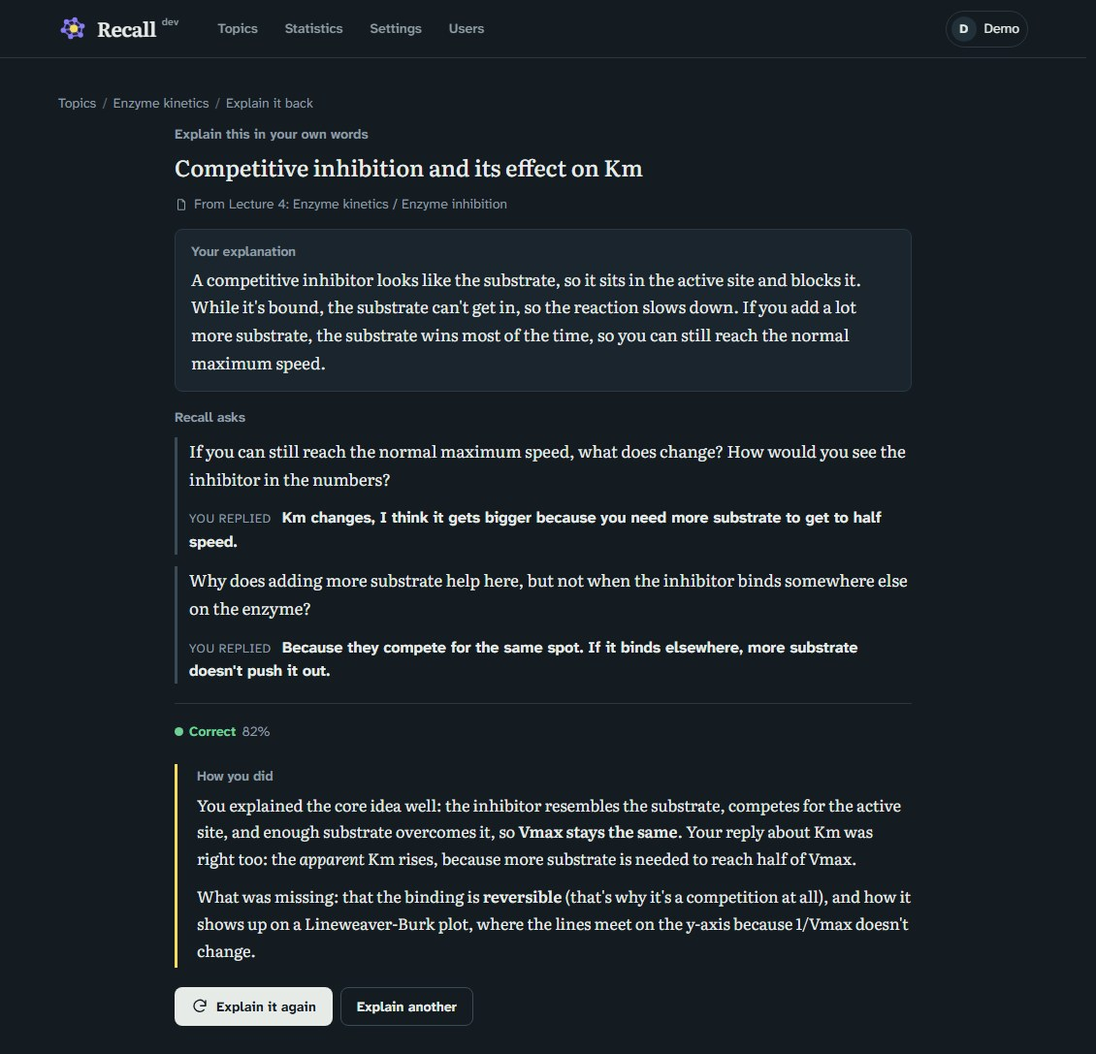
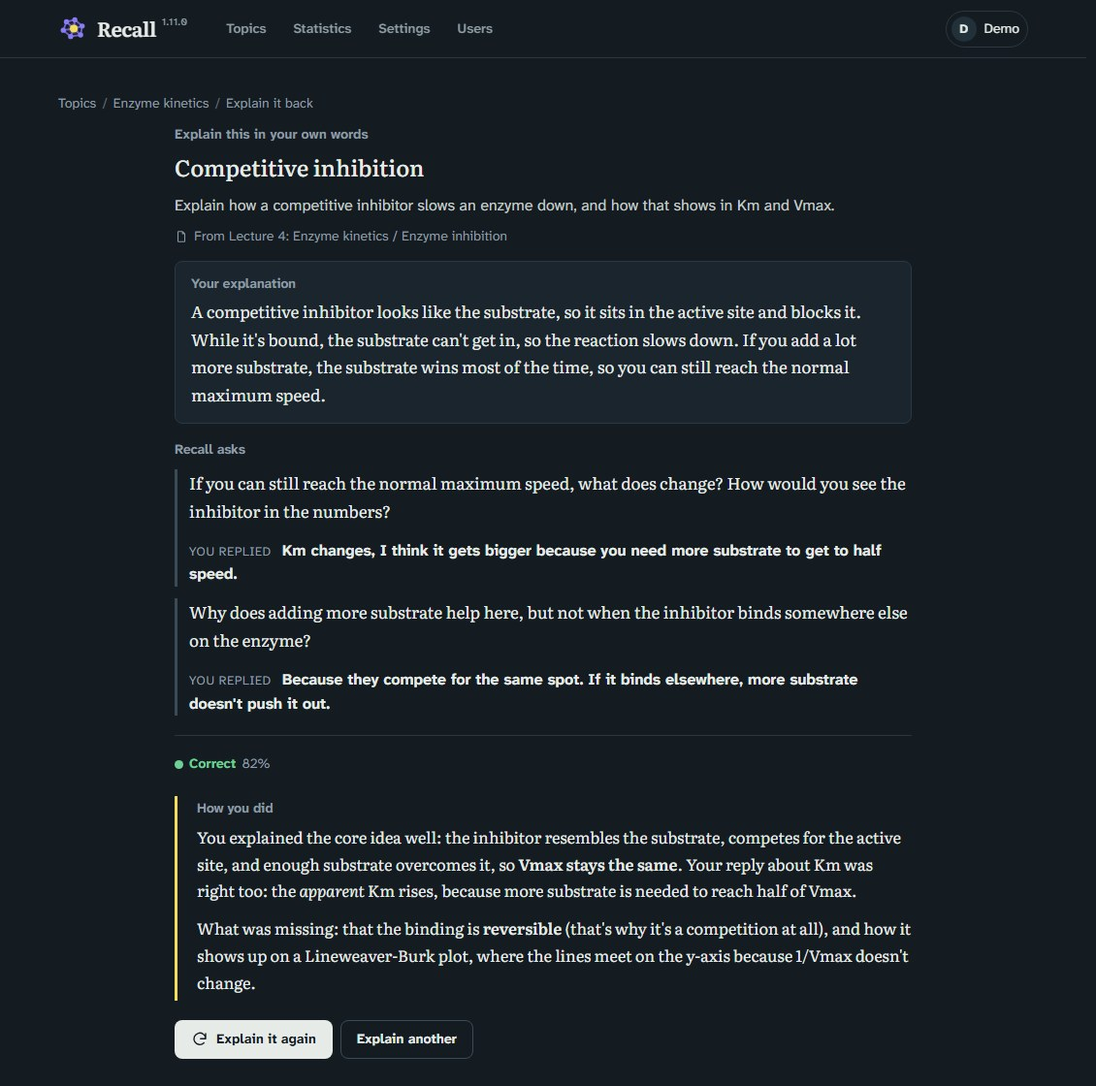
Keep attempt navigation in one place; give Explain it back concepts a task
Testing 1.11.0 showed two rough spots.

The Next button moved between two rows depending on whether the
question was answered. Navigation is now one fixed row: Previous on the
left (disabled on the first question), finishing in the middle, Next on
the right. Next goes to the following question instead of jumping to
the next unanswered one, which was confusing beside Previous; saving an
answer still moves on to the next open question.

A concept name alone ("Safety warnings") gave no idea what to explain.
The AI now writes a one-sentence task for each concept along with its
name: what to cover, with context, but not the answer. It's shown on
the pick page and the session and sent to the AI with the concept.
Material without tasks shows what its section covers instead and is
offered for re-analysis.

While material is analyzed again, Explain it back and the topic page
show the moving logo like other long-running work.

diff --git a/src/LearningPortal.Web/wwwroot/css/app.css b/src/LearningPortal.Web/wwwroot/css/app.css
@@ -827,6 +827,9 @@ a.row-title:hover { text-decoration: underline; text-decoration-color: var(--rul
 /* The logo stands in for a spinner; wwwroot/js/brand-motion.js moves its dot. */
 .busy .brand-mark { flex: none; }
 .busy-note { display: block; margin-top: 2px; color: var(--pencil); font-size: var(--t-xs); }
+/* The same moving logo, small, beside a material that's being analyzed. */
+.analyzing { display: inline-flex; align-items: center; gap: 6px; }
+.analyzing .brand-mark { flex: none; }
 
 /* "Practice weak questions": a button with how many questions to take. */
 .practice-row { display: flex; flex-wrap: wrap; align-items: center; gap: 10px 16px; margin-top: 14px; }
@@ -908,7 +911,10 @@ a.tool-card:hover, a.tool-card:focus-visible { border-color: var(--pencil); }
 .concept-pick { text-align: left; font-weight: 700; color: var(--ink); }
 /* Explain it back: a section's name over the concepts to pick from it. */
 .concept-section { margin-bottom: 6px; font-size: var(--t-sm); color: var(--pencil); overflow-wrap: anywhere; }
-.concept-list { display: grid; gap: 6px; margin: 0; padding: 0; list-style: none; }
+.concept-list { display: grid; gap: 10px; margin: 0; padding: 0; list-style: none; }
+/* What to explain about a concept, under its name. */
+.concept-task { margin-top: 2px; color: var(--ink-soft); font-size: var(--t-sm); line-height: 1.45; overflow-wrap: anywhere; }
+.exam .concept-task { font-size: var(--t-md); }
 .explain-student { display: grid; gap: 12px; margin-top: 18px; }
 .explain-student .follow-up { display: grid; gap: 8px; }
 
@@ -1401,8 +1407,24 @@ a.tool-card:hover, a.tool-card:focus-visible { border-color: var(--pencil); }
 }
 
 .exam-actions .spacer { flex: 1; }
-/* The quieter row under the answer buttons: previous question, skip to the next. */
-.exam-nav { margin-top: 10px; }
+/* Getting around an attempt: previous on the left, finishing in the middle, next on the right.
+   Three fixed columns, so the buttons stay put whatever the question's state. */
+.exam-nav {
+    display: grid;
+    grid-template-columns: 1fr auto 1fr;
+    align-items: center;
+    gap: 10px;
+    margin-top: 24px;
+}
+
+.exam-actions + .exam-nav { margin-top: 14px; }
+.exam-nav > :first-child { justify-self: start; }
+.exam-nav > :last-child { justify-self: end; }
+.exam-nav-finish { justify-self: center; }
+
+@media (max-width: 520px) {
+    .exam-nav .long { display: none; }
+}
 
 .result-line {
     display: flex;

diff --git a/src/LearningPortal.Core/Services/ExplainService.cs b/src/LearningPortal.Core/Services/ExplainService.cs
@@ -10,7 +10,12 @@ namespace LearningPortal.Core.Services;
 // A concept the user can explain: one idea from a section of the material. The AI lists them per
 // section when it outlines the material; material analyzed before that gets the key concepts of
 // its outline line, split at the commas, or the section's name when there's no outline.
-public sealed record ExplainConcept(int SectionId, string MaterialTitle, string SectionName, string Label, string State);
+// Task: the AI's line on what to explain about it; null for a concept from the fallback.
+public sealed record ExplainConcept(int SectionId, string MaterialTitle, string SectionName, string Label, string? Task, string State);
+
+// Where a session's concept comes from ("Material / Section"), what to explain about it, and,
+// when the AI wrote no task for it, what else its section covers, for context.
+public sealed record ExplainSource(string Name, string? Task, string? Covers);
 
 // Material whose concepts still come from splitting its outline; analyzing it again lists them properly.
 // Error: why the last try at that failed.
@@ -41,10 +46,10 @@ public sealed class ExplainService(
         {
             foreach (var s in material.Sections)
             {
-                IReadOnlyList<string> labels = listed.TryGetValue(s.SectionId, out var fromAi) ? fromAi
-                    : SectionNames.SplitConcepts(s.Concepts) is { Count: > 0 } split ? split
-                    : [s.Name];
-                concepts.AddRange(labels.Select(label => new ExplainConcept(s.SectionId, material.Title, s.Name, Truncate(label), StateOf(s))));
+                IReadOnlyList<SectionConcept> found = listed.GetValueOrDefault(s.SectionId) is { } fromAi ? fromAi
+                    : SectionNames.SplitConcepts(s.Concepts) is { Count: > 0 } split ? split.Select(c => new SectionConcept(c, null)).ToList()
+                    : [new SectionConcept(s.Name, null)];
+                concepts.AddRange(found.Select(c => new ExplainConcept(s.SectionId, material.Title, s.Name, Truncate(c.Name), c.Task, StateOf(s))));
             }
         }
         return concepts;
@@ -55,7 +60,7 @@ public sealed class ExplainService(
         await using var db = await dbFactory.CreateDbContextAsync(ct);
         return await db.Materials.AsNoTracking()
             .Where(m => m.UserId == userId && m.TopicId == topicId && m.Outline != null
-                && m.Sections.Any(s => s.ConceptsJson == null))
+                && m.Sections.Any(s => s.ConceptsJson == null || s.ConceptsJson.StartsWith("[\"")))
             .OrderBy(m => m.CreatedAt)
             .Select(m => new ConceptRefresh(m.Id, m.Title, m.TokenEstimate,
                 m.AnalysisStatus == AnalysisStatus.Failed ? m.AnalysisError : null))
@@ -102,24 +107,36 @@ public sealed class ExplainService(
             .FirstOrDefaultAsync(s => s.Id == sessionId && s.UserId == userId, ct) ?? throw new NotFoundException();
     }
 
-    // "Material / Section" for the section a session's concept comes from; null when the material
-    // has since been deleted.
-    public async Task<string?> SourceNameAsync(string userId, int sessionId, CancellationToken ct = default)
+    // Null when the material has since been deleted.
+    public async Task<ExplainSource?> SourceAsync(string userId, int sessionId, CancellationToken ct = default)
     {
         await using var db = await dbFactory.CreateDbContextAsync(ct);
-        var sectionId = await db.ExplainSessions.Where(s => s.Id == sessionId && s.UserId == userId).Select(s => s.SectionId).FirstOrDefaultAsync(ct);
+        var session = await db.ExplainSessions.AsNoTracking().Where(s => s.Id == sessionId && s.UserId == userId)
+            .Select(s => new { s.SectionId, s.Concept }).FirstOrDefaultAsync(ct);
+        if (session?.SectionId is not { } sectionId)
+            return null;
         var material = await db.Materials.AsNoTracking()
             .Where(m => m.UserId == userId && m.Sections.Any(s => s.Id == sectionId))
             .Select(m => new Material
             {
                 Id = m.Id, Title = m.Title, Outline = m.Outline,
-                Sections = m.Sections.Select(s => new MaterialSection { Id = s.Id, MaterialId = s.MaterialId, Index = s.Index, Heading = s.Heading }).ToList(),
+                Sections = m.Sections.Select(s => new MaterialSection { Id = s.Id, MaterialId = s.MaterialId, Index = s.Index, Heading = s.Heading, ConceptsJson = s.ConceptsJson }).ToList(),
             })
             .FirstOrDefaultAsync(ct);
-        return material?.Sections.FirstOrDefault(s => s.Id == sectionId) is { } section
-            ? QuestionGenerationService.SourceLabel(material, section)
+        if (material?.Sections.FirstOrDefault(s => s.Id == sectionId) is not { } section)
+            return null;
+
+        var task = TaskFor(section.Concepts, session.Concept);
+        var covers = task is null
+            ? SectionNames.For(material.Title, material.Outline, material.Sections.Select(s => (s.Index, s.Heading)))[section.Index].Concepts
             : null;
+        return new ExplainSource(QuestionGenerationService.SourceLabel(material, section), task, covers);
     }
+
+    // The session keeps only the concept's name; its task is looked up, so it's gone if a later
+    // analysis renamed the concept.
+    private static string? TaskFor(IReadOnlyList<SectionConcept>? concepts, string concept) =>
+        concepts?.FirstOrDefault(c => Truncate(c.Name).Equals(concept, StringComparison.OrdinalIgnoreCase))?.Task;
 
     public async Task<IReadOnlyList<ExplainSummary>> ListAsync(string userId, int topicId, CancellationToken ct = default)
     {
@@ -151,13 +168,13 @@ public sealed class ExplainService(
         var session = await LoadAsync(db, userId, sessionId, ct);
         if (session.Questions.Count > 0)
             throw new InvalidOperationException("This explanation already has its questions.");
-        var (language, source) = await ContextAsync(db, session, ct);
+        var (language, source, concept) = await ContextAsync(db, session, ct);
 
         var connection = await settings.GetConnectionAsync(userId, AiTask.Generation, choice, ct);
         var json = await AiClientFactory.Create(connection).CompleteJsonAsync(new AiRequest
         {
             System = Prompts.ExplainQuestionsSystem(language),
-            Prompt = Prompts.ExplainPrompt(session.Concept, source, text),
+            Prompt = Prompts.ExplainPrompt(concept, source, text),
             SchemaName = "explain_questions",
             Schema = Prompts.ExplainQuestionsSchema,
             MaxTokens = 2_000,
@@ -197,13 +214,13 @@ public sealed class ExplainService(
             throw new InvalidOperationException("Write your explanation first.");
         if (session.CompletedAt is not null)
             throw new InvalidOperationException("This explanation has already been assessed.");
-        var (language, source) = await ContextAsync(db, session, ct);
+        var (language, source, concept) = await ContextAsync(db, session, ct);
 
         var connection = await settings.GetConnectionAsync(userId, AiTask.Generation, choice, ct);
         var json = await AiClientFactory.Create(connection).CompleteJsonAsync(new AiRequest
         {
             System = Prompts.ExplainAssessmentSystem(language),
-            Prompt = Prompts.ExplainPrompt(session.Concept, source, session.Explanation, session.Questions, cleaned),
+            Prompt = Prompts.ExplainPrompt(concept, source, session.Explanation, session.Questions, cleaned),
             SchemaName = "explain_assessment",
             Schema = Prompts.ExplainAssessmentSchema,
             MaxTokens = 4_000,
@@ -229,13 +246,16 @@ public sealed class ExplainService(
     private static async Task<ExplainSession> LoadAsync(AppDbContext db, string userId, int sessionId, CancellationToken ct) =>
         await db.ExplainSessions.FirstOrDefaultAsync(s => s.Id == sessionId && s.UserId == userId, ct) ?? throw new NotFoundException();
 
-    private static async Task<(string Language, string? Source)> ContextAsync(AppDbContext db, ExplainSession session, CancellationToken ct)
+    // The concept as the AI sees it: with its task, when there is one, so it judges the same
+    // thing the user was asked to explain.
+    private static async Task<(string Language, string? Source, string Concept)> ContextAsync(AppDbContext db, ExplainSession session, CancellationToken ct)
     {
         var language = await db.Topics.Where(t => t.Id == session.TopicId).Select(t => t.Language).FirstAsync(ct);
-        var source = session.SectionId is { } sid
-            ? await db.MaterialSections.Where(s => s.Id == sid).Select(s => s.Text).FirstOrDefaultAsync(ct)
+        var section = session.SectionId is { } sid
+            ? await db.MaterialSections.AsNoTracking().Where(s => s.Id == sid).Select(s => new MaterialSection { Text = s.Text, ConceptsJson = s.ConceptsJson }).FirstOrDefaultAsync(ct)
             : null;
-        return (language, source);
+        var concept = TaskFor(section?.Concepts, session.Concept) is { } task ? $"{session.Concept}\n{task}" : session.Concept;
+        return (language, section?.Text, concept);
     }
 
     private static string StateOf(SectionScore s) => s.QuestionCount == 0 ? "empty"

diff --git a/src/LearningPortal.Core/Models/Entities.cs b/src/LearningPortal.Core/Models/Entities.cs
@@ -131,6 +131,38 @@ public sealed class Material
     public List<MaterialSection> Sections { get; set; } = [];
 }
 
+// One idea to explain: its name, and a line saying what to explain about it (with the context
+// the bare name lacks, but not the answer).
+public sealed record SectionConcept(string Name, string? Task)
+{
+    public const int MaxTaskLength = 300;
+
+    public static IReadOnlyList<SectionConcept>? Parse(string? json)
+    {
+        if (json is null)
+            return null;
+        var list = new List<SectionConcept>();
+        try
+        {
+            using var doc = System.Text.Json.JsonDocument.Parse(json);
+            foreach (var item in doc.RootElement.EnumerateArray())
+            {
+                // A bare string is a name without a task (lists written by early 1.11.0 builds).
+                if (item.ValueKind == System.Text.Json.JsonValueKind.String)
+                    list.Add(new SectionConcept(item.GetString()!, null));
+                else if (item.ValueKind == System.Text.Json.JsonValueKind.Object && item.TryGetProperty("name", out var name))
+                    list.Add(new SectionConcept(name.GetString() ?? "",
+                        item.TryGetProperty("task", out var task) && !string.IsNullOrWhiteSpace(task.GetString()) ? task.GetString() : null));
+            }
+        }
+        catch (Exception ex) when (ex is System.Text.Json.JsonException or InvalidOperationException)
+        {
+            return null;
+        }
+        return list.Where(c => c.Name.Length > 0).ToList();
+    }
+}
+
 public sealed class MaterialSection
 {
     public int Id { get; set; }
@@ -140,14 +172,16 @@ public sealed class MaterialSection
     public string Text { get; set; } = "";
     public int TokenEstimate { get; set; }
     // The concepts in this section worth explaining in one's own words, listed by the AI along
-    // with the outline, as a JSON string array. Null for material analyzed before 1.11.0; an
-    // empty list means the section has nothing to explain (a table of contents, references).
+    // with the outline, as JSON: [{"name": "...", "task": "..."}]. Null for material analyzed
+    // before 1.11.0; an empty list means the section has nothing to explain (a table of contents,
+    // references).
     public string? ConceptsJson { get; set; }
 
     public Material? Material { get; set; }
 
-    public IReadOnlyList<string>? Concepts =>
-        ConceptsJson is null ? null : System.Text.Json.JsonSerializer.Deserialize<List<string>>(ConceptsJson) ?? [];
+    // Read from ConceptsJson; not a table of its own.
+    [System.ComponentModel.DataAnnotations.Schema.NotMapped]
+    public IReadOnlyList<SectionConcept>? Concepts => SectionConcept.Parse(ConceptsJson);
 }
 
 // A question in a topic's bank. Exams reference bank questions rather than owning copies, so a

diff --git a/src/LearningPortal.Core/Ai/Prompts.cs b/src/LearningPortal.Core/Ai/Prompts.cs
@@ -21,7 +21,18 @@ public static class Prompts
                 "type": "object",
                 "properties": {
                   "section_index": { "type": "integer" },
-                  "concepts": { "type": "array", "items": { "type": "string" } }
+                  "concepts": {
+                    "type": "array",
+                    "items": {
+                      "type": "object",
+                      "properties": {
+                        "name": { "type": "string" },
+                        "task": { "type": "string" }
+                      },
+                      "required": ["name", "task"],
+                      "additionalProperties": false
+                    }
+                  }
                 },
                 "required": ["section_index", "concepts"],
                 "additionalProperties": false
@@ -53,10 +64,13 @@ public static class Prompts
             which parts of the material to ask about, not to replace the material.
 
             Separately, in "concepts", list for every section the concepts a student should be able
-            to explain in their own words: up to 6 per section, the most important first. Each one is
-            a short phrase that names a single idea and makes sense on its own, without seeing the
-            section: "The Three Assurances in safer-sex talks", not "Vulnerability" or "Questions
-            16-20". Give a section an empty list when it has nothing to explain, such as a table of
+            to explain in their own words: up to 6 per section, the most important first. Each has:
+            - "name": a short phrase that names a single idea.
+            - "task": one sentence telling the student what to explain about it, with the context
+              the bare name lacks, so it makes sense to someone who can't see the section. It says
+              what to cover, never the answer. For the name "Safety warnings": "Explain which
+              warnings the manual gives for charging the battery, and why each one matters."
+            Give a section an empty list when it has nothing to explain, such as a table of
             contents, an index or a list of references.
             """);
         return sb.ToString();

diff --git a/src/LearningPortal.Core/Services/MaterialService.cs b/src/LearningPortal.Core/Services/MaterialService.cs
@@ -171,10 +171,14 @@ public sealed class MaterialService(
                 || sections.FirstOrDefault(s => s.Index == sectionIndex) is not { } section)
                 continue;
             var cleaned = concepts.EnumerateArray()
-                .Select(c => c.ValueKind == JsonValueKind.String ? c.GetString()!.Trim() : "")
-                .Where(c => c.Length > 0)
-                .Select(c => c.Length <= ExplainSession.MaxConceptLength ? c : c[..ExplainSession.MaxConceptLength])
-                .Distinct(StringComparer.OrdinalIgnoreCase)
+                .Where(c => c.ValueKind == JsonValueKind.Object)
+                .Select(c => new
+                {
+                    name = Clip(c.TryGetProperty("name", out var n) ? n.GetString() : null, ExplainSession.MaxConceptLength),
+                    task = Clip(c.TryGetProperty("task", out var t) ? t.GetString() : null, SectionConcept.MaxTaskLength),
+                })
+                .Where(c => c.name.Length > 0)
+                .DistinctBy(c => c.name, StringComparer.OrdinalIgnoreCase)
                 .Take(MaxConceptsPerSection)
                 .ToList();
             section.ConceptsJson = JsonSerializer.Serialize(cleaned);
@@ -182,6 +186,9 @@ public sealed class MaterialService(
     }
 
     private const int MaxConceptsPerSection = 8;
+
+    private static string Clip(string? text, int max) =>
+        text is null ? "" : text.Trim() is var t && t.Length <= max ? t : text.Trim()[..max];
 
     public async Task<MaterialDetail> GetAsync(string userId, int materialId, CancellationToken ct = default)
     {

diff --git a/CLAUDE.md b/CLAUDE.md
@@ -32,7 +32,7 @@ LearningPortal is a multi-user, Docker-hosted web app that turns a user's own st
 - **Question writing runs in the background.** Filling, regenerating and replacing questions run on the server (`QuestionWriter`), so they carry on when the user leaves the page or closes the browser. The exam page follows the job live and shows its outcome when the user comes back; the topic page marks exams being written.
 - **Concept map.** A topic's sections as tiles, sized by text and colored by how well their questions go (no AI). Picking a section practices it through the topic's practice exam. Sections are named by `SectionNames`: a heading that tells the section apart, otherwise the subject from the material's outline (material without headings gets "Title (part N)" headings), otherwise "Part N". The same names are used on the material page, in Explain it back, practice names and question source labels. Source labels are stored on the question, so renaming or re-analyzing material rebuilds them.
 - **Homepage widget.** `GET /api/homepage/stats` returns instance-wide counts (accounts, active this week, active now) for a gethomepage.dev customapi widget. It takes one token for the whole instance in an `X-API-Key` header; any admin creates, replaces or revokes it under Admin settings, and only its SHA-256 hash is stored.
-- **Explain it back.** The user picks a concept (single ideas, grouped by section, or "Surprise me", which favors weak sections) and explains it in their own words; the AI asks one or two questions like a curious beginner, then scores it (0-100) with feedback. Only that section's text goes to the AI. The AI lists each section's concepts when it outlines the material (stored per section; an empty list hides a section with nothing to explain). Material outlined before 1.11.0 falls back to splitting its outline line, and the page offers to analyze it again. Sessions are kept per topic and don't count in statistics.
+- **Explain it back.** The user picks a concept (single ideas, grouped by section, or "Surprise me", which favors weak sections) and explains it in their own words; the AI asks one or two questions like a curious beginner, then scores it (0-100) with feedback. Only that section's text goes to the AI. The AI lists each section's concepts when it outlines the material: a short name plus a one-sentence task saying what to explain, with context but not the answer (stored per section; an empty list hides a section with nothing to explain). The task is shown with the concept and sent to the AI with it. Material outlined before 1.11.0 falls back to splitting its outline line (no task; the session shows what the section covers instead), and the page offers to analyze it again, with a model picker in Advanced mode. Sessions are kept per topic and don't count in statistics.
 - **Gap finder.** The AI compares the topic's outlines with what the subject usually covers and lists gaps; it can write a study note per gap, added as material marked "Written by the AI". Both come from general knowledge, so the UI states clearly that they can be wrong.
 - **Printing an exam.** `/exams/{id}/print` shows the exam as a sheet and uses the browser's print dialog (print or "Save as PDF"; no PDF library). The answer key is optional and starts on a new page. Options keep their stored order, the sheet is always ink on white, and answers on paper aren't entered back.
 - **Repeating an exam.** A repeat uses the same questions, with the question order and the multiple-choice options shuffled.
@@ -41,7 +41,7 @@ LearningPortal is a multi-user, Docker-hosted web app that turns a user's own st
   - remove a question, or have the AI replace one
   - manually edit a question, its answer, or its explanation
   - add their own questions
-- **Attempts.** There is no timer, but each attempt's duration is recorded. Every answer is saved as soon as it's given, so the user can leave and resume an unfinished attempt later. "Previous question" goes back one; "Next question" goes to the next unanswered one (wrapping round), so a question can be skipped, and the last question lists the unanswered ones.
+- **Attempts.** There is no timer, but each attempt's duration is recorded. Every answer is saved as soon as it's given, so the user can leave and resume an unfinished attempt later. A fixed row under the answer buttons has "Previous question" on the left, "Finish early" in the middle and "Next question" on the right; Next goes to the following question whether or not this one is answered, so a question can be skipped. The last question lists the unanswered ones and offers "Go to question N", or "See results" when all are answered. Saving an answer moves on to the next unanswered question.
 - **What's new.** After an update, each user sees a banner ("Recall was updated to X.Y.Z", linking to the release notes) until they close it. Users are never told about the version they first saw; local "dev" builds show nothing.
 - **Statistics.** The page shows:
   - score over time for each exam

diff --git a/CHANGELOG.md b/CHANGELOG.md
@@ -5,11 +5,11 @@
 ### New
 
 - **Print an exam**: print it or save it as a PDF to practice away from the screen, with the "Print" button on the exam page. Add the answer key, with answers and explanations, if you want it; it starts on a new page.
-- **Previous question**: go back to the question before while taking an exam. "Next question" is now always there too, so you can skip a question and come back to it. At the end, Recall lists the questions you haven't answered yet.
+- **Previous question**: go back to the question before while taking an exam. "Next question" is now always there too, so you can skip a question and come back to it, and both buttons stay in the same place. At the end, Recall lists the questions you haven't answered yet.
 
 ### Improved
 
-- **Explain it back** asks about one concept at a time. Concepts are grouped by section, and "Surprise me" picks a single one. For material you add from now on, Recall lists the concepts itself; older material can be analyzed again from the Explain it back page to get the same.
+- **Explain it back** asks about one concept at a time, with a line saying what to explain about it. Concepts are grouped by section, and "Surprise me" picks a single one. For material you add from now on, Recall lists the concepts itself; older material can be analyzed again from the Explain it back page to get the same.
 
 ### Fixed
 

diff --git a/README.md b/README.md
@@ -88,9 +88,9 @@ run as an exam if it's useful.
 ### Explain it back
 
 The best test of understanding is explaining something in your own words. Recall lists the
-concepts in your material, one idea at a time and grouped by section. Pick one, or press
-**Surprise me** and Recall picks one from a part you're weak in or haven't practiced. Write your
-explanation as if to someone new to the subject.
+concepts in your material, one idea at a time and grouped by section, each with a line saying
+what to explain about it. Pick one, or press **Surprise me** and Recall picks one from a part
+you're weak in or haven't practiced. Write your explanation as if to someone new to the subject.
 
 ![Explain it back: the concepts to pick from, grouped by section](docs/images/recall-explain-pick.jpg)
 
